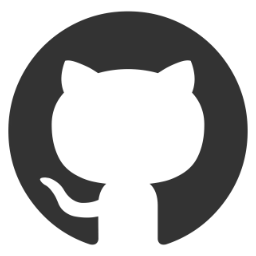
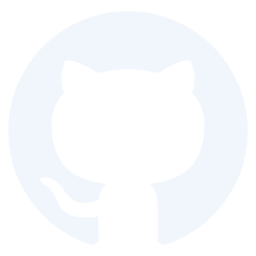
GitHub login

diff --git a/components/login.vue b/components/login.vue
@@ -10,6 +10,10 @@
 					<img alt="Logo" class="h-full aspect-square" src="/MAAL.png" />
 					<span class="text-center">Continue with MAAL</span>
 				</button>
+				<button :value="IdentityProvider.gitHub" class="LoginButton" name="provider" type="submit">
+					<img alt="Logo" class="h-full aspect-square" src="/GitHub.png" />
+					<span class="text-center">Continue with GitHub</span>
+				</button>
 				<button :value="IdentityProvider.microsoft" class="LoginButton" disabled name="provider" type="submit">
 					<img alt="Logo" class="h-full aspect-square" src="/Microsoft.png" />
 					<span class="text-center">Continue with Microsoft</span>

diff --git a/enums/identityProvider.ts b/enums/identityProvider.ts
@@ -14,5 +14,8 @@ export enum IdentityProvider
 	linkedIn,
 	
 	/**  MAAL account  */
-	MAAL
+	MAAL,
+	
+	/**  MAAL account  */
+	gitHub,
 }
